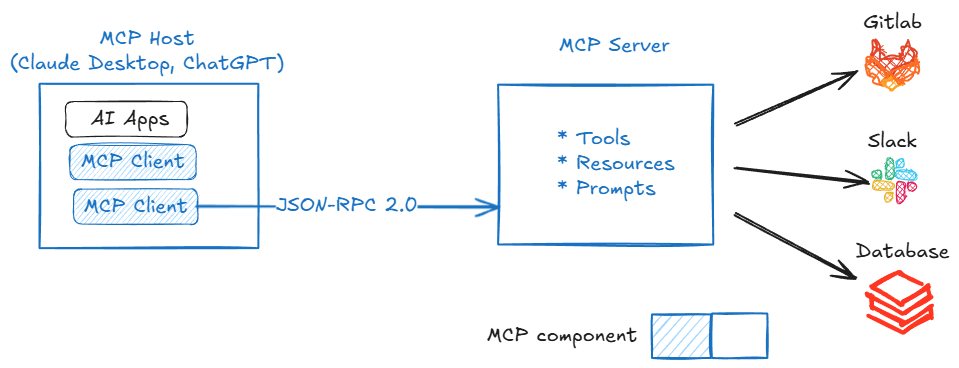
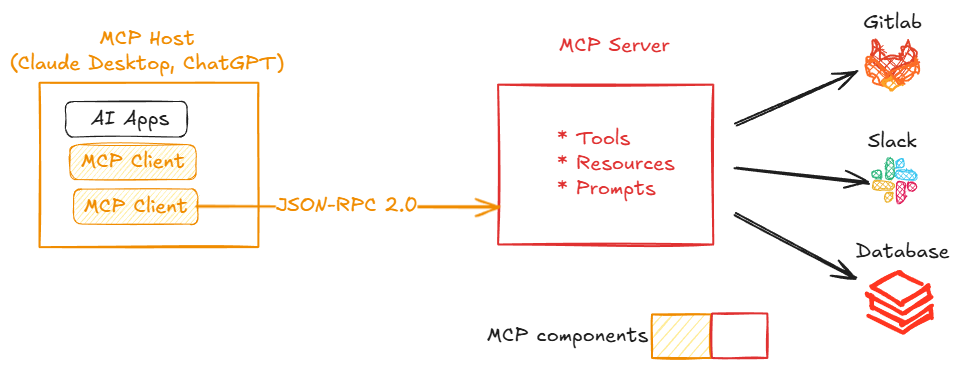
Updated architecture and MCP slides

diff --git a/README.md b/README.md
@@ -27,7 +27,7 @@ by Andras Fejes
 ![slide](./images/s_02.png)
 
 * Frontend: [Angular](https://angular.dev) + [NodeJS](https://nodejs.org)
-* Backend: [Quarkus](https://quarkus.io) + [Langchain4J](https://docs.langchain4j.dev/)
+* Backend + AI Service: [Quarkus](https://quarkus.io) + [Langchain4J](https://docs.langchain4j.dev/)
 * LLM: [Ollama](https://ollama.com/)
 * Dev & Test: Docker & Testcontainers
 
@@ -42,6 +42,12 @@ Quarkus is ideal for AI applications due to its
 Quarkus's "AI-Enhanced Developer Experience" provides
 
 * fast startups, low memory, and a reactive core for cloud-native AI; boosts developer velocity with live coding, a unified Java stack, and robust observability/security for reliable AI services.
+
+---
+
+## Application Architecture
+
+![slide](./images/s_architecture.png)
 
 ---
 
@@ -68,13 +74,13 @@ Quarkus's "AI-Enhanced Developer Experience" provides
 
 ---
 
-## Message Template Generator - Backend
+## Message Template Generator - AI Service
 
 ![slide](./images/s_05.png)
 
 ---
 
-## Backend Continue
+## AI Service Continue
 
 ![slide](./images/s_06.png)
 
@@ -169,13 +175,13 @@ Base URL: http://localhost:11434/api
 
 ## Putting All Together
 
-![slide](./images/s_17.png)
+![slide](./images/s_16.png)
 
 ---
 
 ## Putting All Together Continue
 
-![slide](./images/s_16.png)
+![slide](./images/s_17.png)
 
 ---
 
@@ -184,6 +190,12 @@ Base URL: http://localhost:11434/api
 * Build and run application
 * mcpinspector
 * Run tests
+
+---
+
+## MCP Calls Flow
+
+TODO: insert sequnce diagram
 
 ---
 
